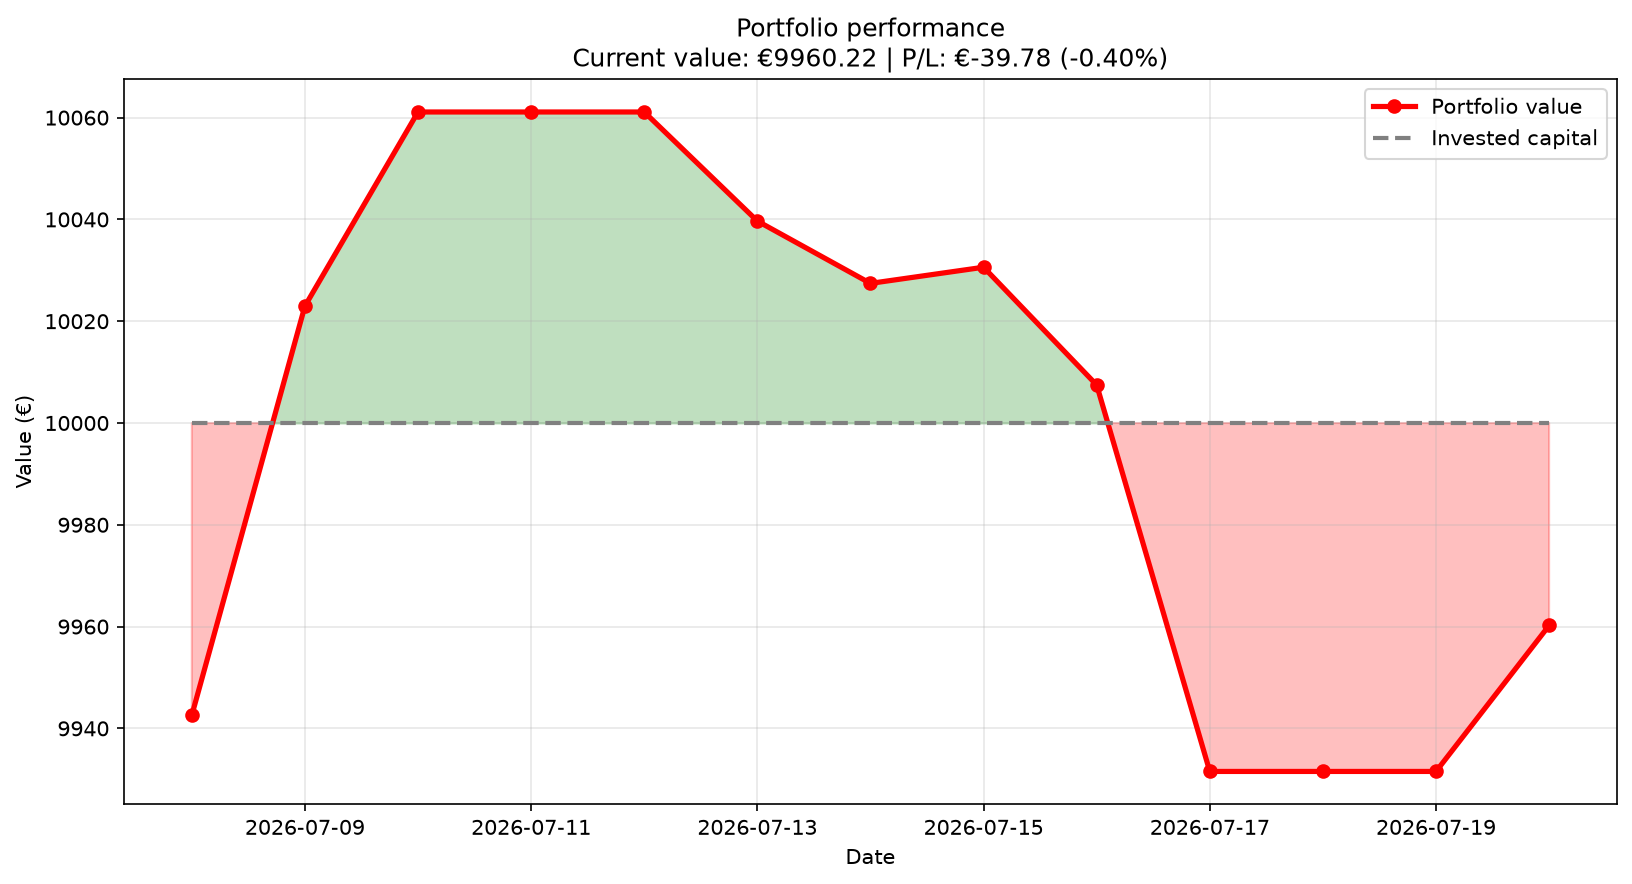
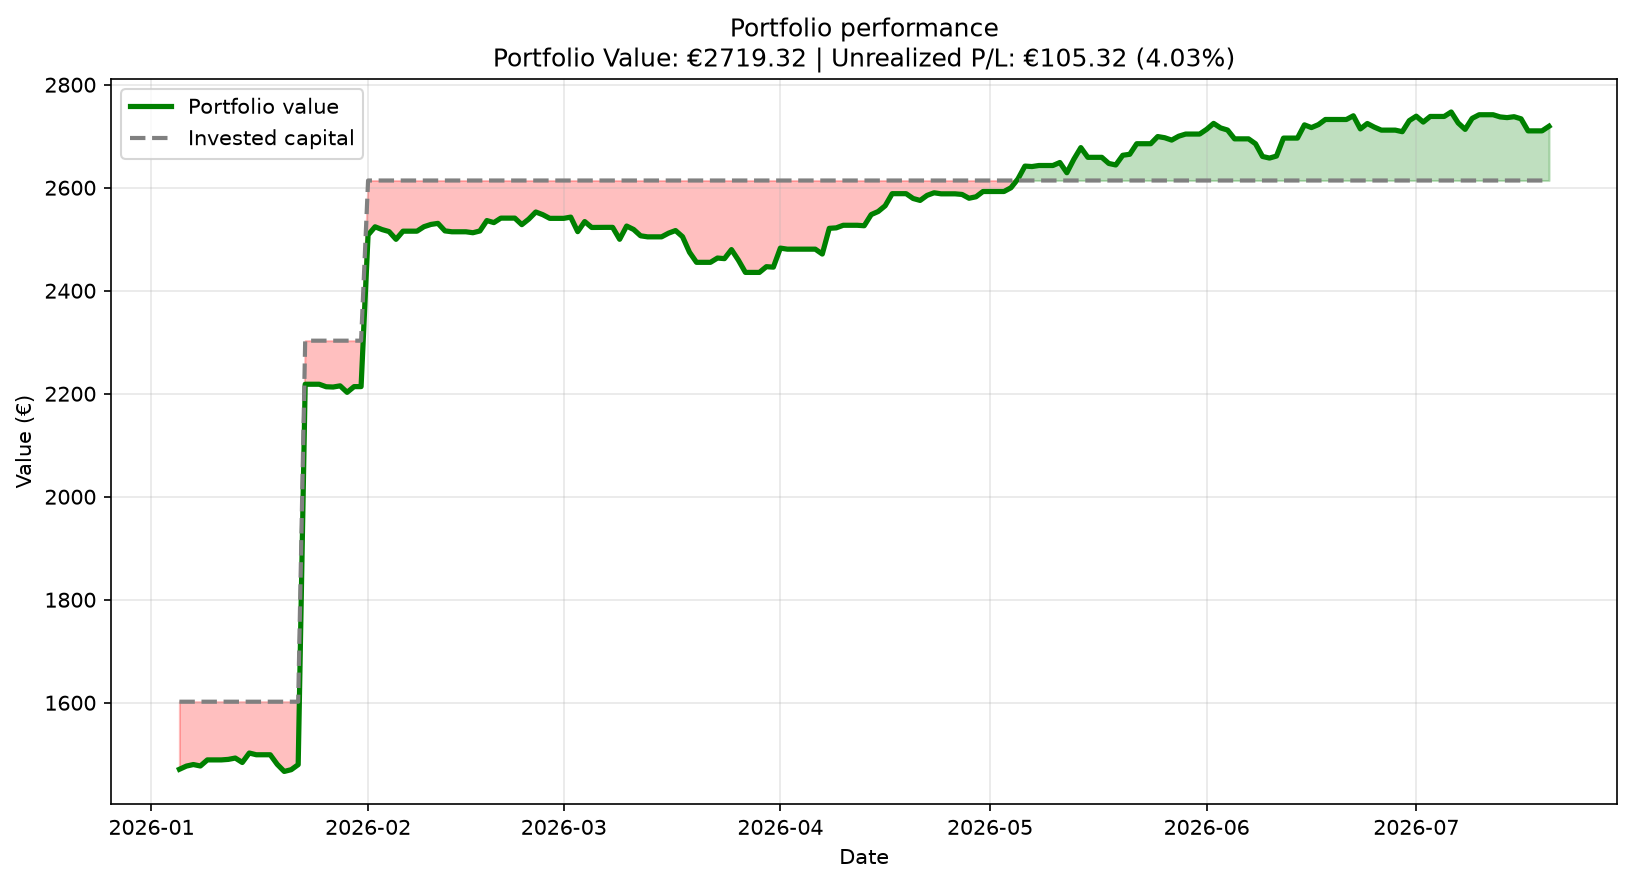
Add historical portfolio performance chart

diff --git a/src/portfolio_history.py b/src/portfolio_history.py
@@ -23,8 +23,6 @@ class HistoricalPriceProvider(Protocol):
 class PortfolioSnapshot:
     snapshot_date: date
     market_value: Decimal
-    cash: Decimal
-    total_value: Decimal
     invested_capital: Decimal
     profit_loss: Decimal
 
@@ -34,14 +32,12 @@ class PortfolioHistory:
         self,
         transactions: list[Transaction],
         price_provider: HistoricalPriceProvider,
-        initial_capital: Decimal,
     ) -> None:
         self._transactions = sorted(
             transactions,
             key=lambda transaction: transaction.transaction_date,
         )
         self._price_provider = price_provider
-        self._initial_capital = initial_capital
 
     def build(
         self,
@@ -71,6 +67,7 @@ class PortfolioHistory:
             for ticker in tickers
         }
 
+
         snapshots: list[PortfolioSnapshot] = []
 
         current_date = start_date
@@ -81,6 +78,10 @@ class PortfolioHistory:
                 for transaction in self._transactions
                 if transaction.transaction_date <= current_date
             ]
+
+            invested_capital = self._calculate_invested_capital(
+                completed_transactions
+            )
 
             portfolio = Portfolio(completed_transactions)
             positions = portfolio.positions()
@@ -100,20 +101,13 @@ class PortfolioHistory:
                     * Decimal(str(historical_price))
                 )
 
-            cash = self._calculate_cash(
-                completed_transactions
-            )
-
-            total_value = market_value + cash
-            profit_loss = total_value - self._initial_capital
+            profit_loss = market_value - invested_capital
 
             snapshots.append(
                 PortfolioSnapshot(
                     snapshot_date=current_date,
                     market_value=market_value,
-                    cash=cash,
-                    total_value=total_value,
-                    invested_capital=self._initial_capital,
+                    invested_capital=invested_capital,
                     profit_loss=profit_loss,
                 )
             )
@@ -122,25 +116,6 @@ class PortfolioHistory:
 
         return snapshots
 
-    def _calculate_cash(
-        self,
-        transactions: list[Transaction],
-    ) -> Decimal:
-        cash = self._initial_capital
-
-        for transaction in transactions:
-            gross_value = (
-                transaction.quantity
-                * transaction.price
-            )
-
-            if transaction.transaction_type == "BUY":
-                cash -= gross_value + transaction.fees
-
-            elif transaction.transaction_type == "SELL":
-                cash += gross_value - transaction.fees
-
-        return cash
 
     @staticmethod
     def _prepare_history(
@@ -162,3 +137,29 @@ class PortfolioHistory:
         return normalized_history.reindex(
             calendar
         ).ffill()
+    
+    def _calculate_invested_capital(
+    self,
+    transactions: list[Transaction],
+) -> Decimal:
+        invested_capital = Decimal("0")
+
+        for transaction in transactions:
+            gross_value = (
+                transaction.quantity
+                * transaction.price
+        )
+
+            if transaction.transaction_type == "BUY":
+                invested_capital += (
+                    gross_value
+                    + transaction.fees
+            )
+
+            elif transaction.transaction_type == "SELL":
+                invested_capital -= (
+                    gross_value
+                    - transaction.fees
+            )
+
+        return invested_capital

diff --git a/src/charts/portfolio_chart.py b/src/charts/portfolio_chart.py
@@ -1,3 +1,4 @@
+from decimal import Decimal
 from pathlib import Path
 
 import matplotlib.pyplot as plt
@@ -10,15 +11,17 @@ def plot_portfolio_history(
     output_path: Path | None = None,
 ) -> None:
     if not snapshots:
-        raise ValueError("Cannot plot an empty portfolio history")
+        raise ValueError(
+            "Cannot plot an empty portfolio history"
+        )
 
     dates = [
         snapshot.snapshot_date
         for snapshot in snapshots
     ]
 
-    total_values = [
-        float(snapshot.total_value)
+    portfolio_values = [
+        float(snapshot.market_value)
         for snapshot in snapshots
     ]
 
@@ -33,73 +36,79 @@ def plot_portfolio_history(
         latest_snapshot.profit_loss
         / latest_snapshot.invested_capital
         * 100
+        if latest_snapshot.invested_capital != 0
+        else Decimal("0")
     )
+
+    line_color = (
+        "green"
+        if latest_snapshot.profit_loss >= 0
+        else "red"
+    )
+
+    positive_mask = [
+        value >= capital
+        for value, capital in zip(
+            portfolio_values,
+            invested_capital,
+        )
+    ]
+
+    negative_mask = [
+        value < capital
+        for value, capital in zip(
+            portfolio_values,
+            invested_capital,
+        )
+    ]
 
     plt.figure(figsize=(11, 6))
 
-    line_color = (
-    "green"
-    if latest_snapshot.profit_loss >= 0
-    else "red"
-)
+    plt.plot(
+        dates,
+        portfolio_values,
+        linewidth=2.5,
+        color=line_color,
+        label="Portfolio value",
+    )
 
     plt.plot(
-    dates,
-    total_values,
-    marker="o",
-    linewidth=2.5,
-    color=line_color,
-    label="Portfolio value",
-)
-
-    plt.plot(
-    dates,
-    invested_capital,
-    linestyle="--",
-    linewidth=2,
-    color="gray",
-    label="Invested capital",
-)
-
-    plt.fill_between(
-    dates,
-    total_values,
-    invested_capital,
-    where=[
-        total >= invested
-        for total, invested in zip(
-            total_values,
-            invested_capital,
-        )
-    ],
-    color="green",
-    alpha=0.25,
-    interpolate=True,
-)
+        dates,
+        invested_capital,
+        linestyle="--",
+        linewidth=2,
+        color="gray",
+        label="Invested capital",
+    )
 
     plt.fill_between(
         dates,
-        total_values,
+        portfolio_values,
         invested_capital,
-        where=[
-            total < invested
-        for total, invested in zip(
-            total_values,
-            invested_capital,
-        )
-    ],
-    color="red",
-    alpha=0.25,
-    interpolate=True,
-)
+        where=positive_mask,
+        color="green",
+        alpha=0.25,
+        interpolate=True,
+    )
 
+    plt.fill_between(
+        dates,
+        portfolio_values,
+        invested_capital,
+        where=negative_mask,
+        color="red",
+        alpha=0.25,
+        interpolate=True,
+    )
 
     plt.title(
         "Portfolio performance\n"
-        f"Current value: €{latest_snapshot.total_value:.2f} | "
-        f"P/L: €{latest_snapshot.profit_loss:.2f} "
+        f"Portfolio Value: "
+        f"€{latest_snapshot.market_value:.2f} | "
+        f"Unrealized P/L: €{latest_snapshot.profit_loss:.2f} "
         f"({return_percentage:.2f}%)"
     )
+
     plt.xlabel("Date")
     plt.ylabel("Value (€)")
     plt.legend()

diff --git a/main.py b/main.py
@@ -20,6 +20,14 @@ def main() -> None:
         Path("data/transactions.csv")
     )
 
+    if not transactions:
+        print("No transactions found.")
+        return
+    start_date = min(
+        transaction.transaction_date
+        for transaction in transactions
+    )
+
     portfolio = Portfolio(transactions)
 
     positions = portfolio.positions()
@@ -31,6 +39,8 @@ def main() -> None:
     price_provider = YahooPriceProvider({
     "MTD": "MTD.PA",
     "ALLW": "ALLW.DE",
+    "VWCE": "VWCE.DE",
+    "XEON": "XEON.DE",
     })
 
     average_costs = portfolio.average_costs()
@@ -85,12 +95,11 @@ def main() -> None:
 
     history_builder = PortfolioHistory(
     transactions=transactions,
-    price_provider=price_provider,
-    initial_capital=Decimal("10000"),
+    price_provider=price_provider
 )
 
     snapshots = history_builder.build(
-    start_date=date(2026, 7, 8),
+    start_date=start_date,
     end_date=date.today(),
 )
 
@@ -101,8 +110,6 @@ def main() -> None:
         print(
             f"{snapshot.snapshot_date} | "
             f"Assets: €{snapshot.market_value:.2f} | "
-            f"Cash: €{snapshot.cash:.2f} | "
-            f"Total: €{snapshot.total_value:.2f} | "
             f"P/L: €{snapshot.profit_loss:.2f}"
         )
 
